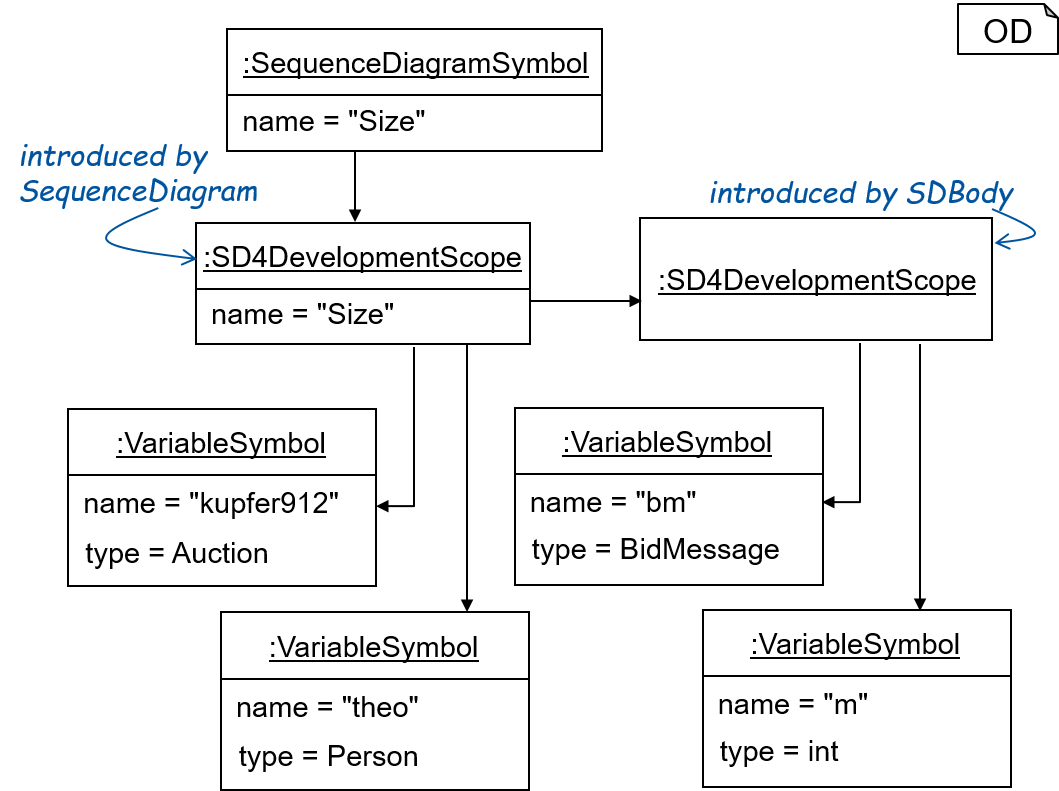
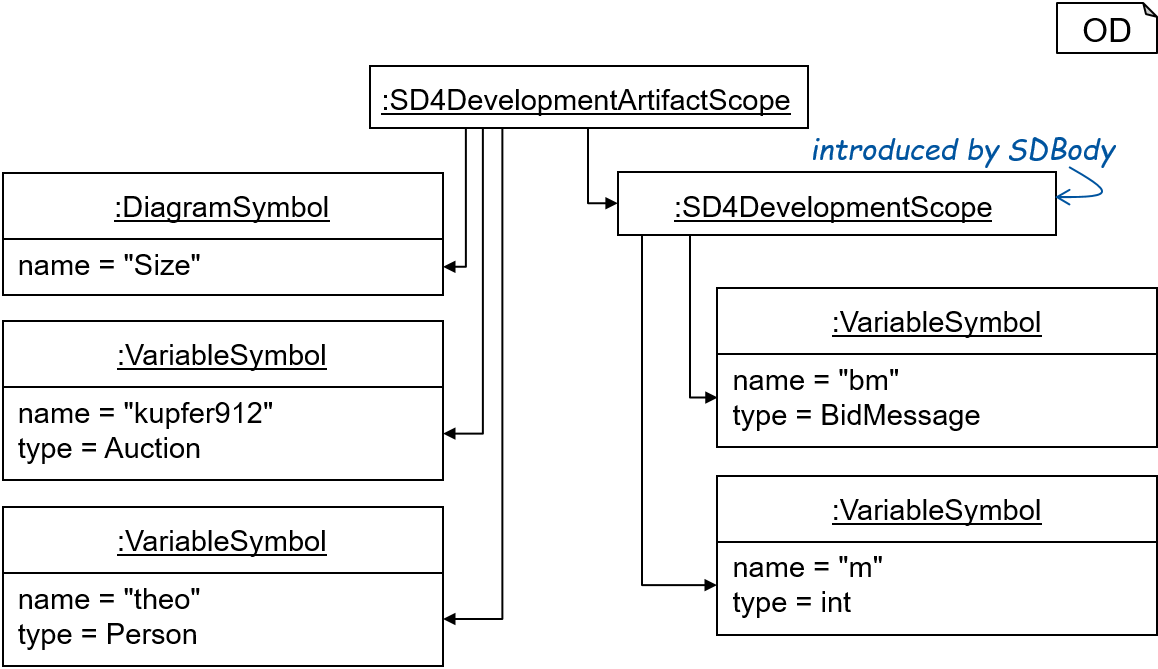
updated documentation

diff --git a/src/main/grammars/de/monticore/lang/sd4development.md b/src/main/grammars/de/monticore/lang/sd4development.md
@@ -79,12 +79,11 @@ The grammar [SDBasis](../../../../grammars/de/monticore/lang/SDBasis.mc4) define
 * interactions for sending messages
 * including (optional) activity bars.   
                             
-The grammar [SDBasis](../../../../grammars/de/monticore/lang/SDBasis.mc4) includes the grammars
+The grammar [SDBasis](../../../../grammars/de/monticore/lang/SDBasis.mc4) extends the grammars
 * [MCBasicTypes](https://github.com/MontiCore/monticore/blob/dev/monticore-grammar/src/main/grammars/de/monticore/types/MCBasicTypes.mc4) for adding the possibility to define objects typed as 
-  MCObjectTypes.
-* [TypeSymbols](https://github.com/MontiCore/monticore/blob/dev/monticore-grammar/src/main/grammars/de/monticore/types/TypeSymbols.mc4) to be able to use symbols of kind Variable and to enable 
-  typechecking. Objects and local variables are added as variable symbols 
-  to the symbol table.
+  MCObjectTypes, to be able to use symbols of kind Variable, and to enable typechecking. 
+  Objects and local variables are added as variable symbols to the symbol table.
+* [BasicSymbols](https://github.com/MontiCore/monticore/blob/dev/monticore-grammar/src/main/grammars/de/monticore/symbols/BasicSymbols.mc4) for using symbols of kind Diagram und Variable.
 * [ExpressionsBasis](https://github.com/MontiCore/monticore/blob/dev/monticore-grammar/src/main/grammars/de/monticore/expressions/ExpressionsBasis.mc4) to be able to reuse visitors for typechecking.
 * [UMLStereotype](https://github.com/MontiCore/monticore/blob/dev/monticore-grammar/src/main/grammars/de/monticore/UMLStereotype.mc4) for adding UMLStereotypes as possible extension points to the grammar. 
 
@@ -110,6 +109,7 @@ The grammar [SD4Development](../../../../grammars/de/monticore/lang/SD4Developme
 * [CommonExpressions](https://github.com/MontiCore/monticore/blob/dev/monticore-grammar/src/main/grammars/de/monticore/expressions/CommonExpressions.mc4) to be able to use simple expressions, e.g. a == b.
 * [OCLExpressions](https://github.com/MontiCore/monticore/blob/dev/monticore-grammar/src/main/grammars/de/monticore/expressions/OCLExpressions.mc4) for embedding OCL expressions as conditions and to be 
   able to use OCL expressions for the definition of local variables.
+* [OOSymbols](https://github.com/MontiCore/monticore/blob/dev/monticore-grammar/src/main/grammars/de/monticore/symbols/OOSymbols.mc4) to be able to import OOType Symbols.
 
 ## Context Conditions
 This section lists the context conditions for the [SDBasis](../../../../grammars/de/monticore/lang/SDBasis.mc4) grammar and the 
@@ -135,9 +135,6 @@ if used source objects are declared before they are used.
 
 * The context condition [```ReferencedObjectTargetDeclaredCoco```](../../../../java/de/monticore/lang/sdbasis/_cocos/ReferencedObjectTargetDeclaredCoco.java) checks 
 if used target objects are declared before they are used.
-
-* The context condition [```ReferencedTypeExistsCoco```](../../../../java/de/monticore/lang/sdbasis/_cocos/ReferencedTypeExistsCoco.java) checks if used 
-types are defined.
 
 * The context condition [```SDNameIsArtifactNameCoco```](../../../../java/de/monticore/lang/sdbasis/_cocos/SDNameIsArtifactNameCoco.java) checks if the 
 names of SDs are equal to the file names of the artifacts
@@ -185,8 +182,7 @@ return actions only appear after corresponding method calls.
 
 ## Symbol Table
 
-The SD language introduces the [```SequenceDiagramSymbol```](../../../../grammars/de/monticore/lang/SDBasis.mc4)
-symbol type. Additionally, the SD language uses the build-in
+The SD language uses the build-in
 symbol type [```VariableSymbol```](https://github.com/MontiCore/monticore/blob/dev/monticore-grammar/src/main/grammars/de/monticore/types/BasicTypeSymbols.mc4) 
 and [type symbol types](https://github.com/MontiCore/monticore/tree/dev/monticore-grammar/src/main/grammars/de/monticore/types) of MontiCore. 
 
@@ -250,9 +246,8 @@ sequencediagram Size {
 ```  
 
 Figure 4 depicts the symbol table instance for the SD ```Size```. 
-Figure 4 abstracts from the ```SD4DevelopmentGlobalScope``` and
- ```SD4DevelopmentArtifactScope``` instances. The two objects 
- ```kupfer912:Auction``` and ```theo:Person``` correspond to the 
+Figure 4 abstracts from the ```SD4DevelopmentGlobalScope``` instance. 
+The two objects ```kupfer912:Auction``` and ```theo:Person``` correspond to the 
  [```VariableSymbol```](https://github.com/MontiCore/monticore/blob/dev/monticore-grammar/src/main/grammars/de/monticore/types/BasicTypeSymbols.mc4)
  instances linked to the ```SD4DevelopmentScope``` with the ```name``` attribute
  containing the value ```"Size"```. The dynamically instantiated object 
@@ -271,18 +266,25 @@ grammar can be found in the class
 [```SDBasisSymbolTableCreator```](../../../../java/de/monticore/lang/sdbasis/_symboltable/SDBasisSymbolTableCreator.java). The handwritten
 extensions of the symbol table creator of the [```SD4Development```](../../../../grammars/de/monticore/lang/SD4Development.mc4) grammar 
 can be found in the class [```SD4DevelopmentSymbolTableCreator```](../../../../java/de/monticore/lang/sd4development/_symboltable/SD4DevelopmentSymbolTableCreator.java). 
+Instances of class [```SD4DevelopmentSymbolTableCompleter```](../../../../java/de/monticore/lang/sd4development/_symboltable/SD4DevelopmentSymbolTableCompleter.java)
+are responsible for calculating the type attributes of variable symbols and, thereby, for checking
+whether used types are defined.
 
 ## Symbol kinds used by the SD language (importable or subclassed):
-TODO analogy to CD4A
-... seems to be VariableSymbol (only)? 
+The SD language uses symbols of kind [```TypeSymbol```](https://github.com/MontiCore/monticore/blob/dev/monticore-grammar/src/main/grammars/de/monticore/types/TypeSymbols.mc4),
+[```VariableSymbol```](https://github.com/MontiCore/monticore/blob/dev/monticore-grammar/src/main/grammars/de/monticore/types/BasicTypeSymbols.mc4), and
+[```DiagramSymbol```](https://github.com/MontiCore/monticore/blob/dev/monticore-grammar/src/main/grammars/de/monticore/symbols/BasicSymbols.mc4) as well as 
+the symbols that are used by these symbols (e.g. [```FunctionSymbol```](https://github.com/MontiCore/monticore/blob/dev/monticore-grammar/src/main/grammars/de/monticore/symbols/BasicSymbols.mc4) 
+is used by [```TypeSymbol```](https://github.com/MontiCore/monticore/blob/dev/monticore-grammar/src/main/grammars/de/monticore/types/TypeSymbols.mc4)).
 
-## Symbol kinds defined the SD language (exported):
+## Symbol kinds defined by the SD language (exported):
 None.      
+
 ## Symbols imported by SD models:
 * SDs import [```VariableSymbols```](https://github.com/MontiCore/monticore/blob/dev/monticore-grammar/src/main/grammars/de/monticore/types/BasicTypeSymbols.mc4). 
 The objects represented by imported [```VariableSymbols```](https://github.com/MontiCore/monticore/blob/dev/monticore-grammar/src/main/grammars/de/monticore/types/BasicTypeSymbols.mc4)
 can be used as sources or targets of interactions.
-* SDs import [TypeSymbols](https://github.com/MontiCore/monticore/blob/dev/monticore-grammar/src/main/grammars/de/monticore/types/TypeSymbols.mc4). The imported types can be used as types for objects and 
+* SDs import [```TypeSymbols```](https://github.com/MontiCore/monticore/blob/dev/monticore-grammar/src/main/grammars/de/monticore/types/TypeSymbols.mc4). The imported types can be used as types for objects and 
 variables introduced via inline declarations. 
 
 ## Symbols exported by SD models:
@@ -304,7 +306,7 @@ depicted in Figure 4:
 
 ```json
 {
-  "name": "bid",
+  "name": "Bid",
   "package": "examples.correct",
   "kindHierarchy": [
     [
@@ -374,9 +376,9 @@ depicted in Figure 4:
 * [Project root: MontiCore @github](https://github.com/MontiCore/monticore)
 * [MontiCore documentation](http://www.monticore.de/)
 
-* [**List of languages**](https://git.rwth-aachen.de/monticore/monticore/-/blob/dev/docs/Languages.md)
-* [**MontiCore Core Grammar Library**](https://git.rwth-aachen.de/monticore/monticore/blob/dev/monticore-grammar/src/main/grammars/de/monticore/Grammars.md)
-* [Best Practices](BestPractices.md)
+* [**List of languages**](https://github.com/MontiCore/monticore/blob/dev/docs/Languages.md)
+* [**MontiCore Core Grammar Library**](https://github.com/MontiCore/monticore/blob/dev/monticore-grammar/src/main/grammars/de/monticore/Grammars.md)
+* [Best Practices](https://github.com/MontiCore/monticore/blob/dev/docs/BestPractices.md)
 * [Publications about MBSE and MontiCore](https://www.se-rwth.de/publications/)
 
 * [Licence definition](https://github.com/MontiCore/monticore/blob/master/00.org/Licenses/LICENSE-MONTICORE-3-LEVEL.md)
